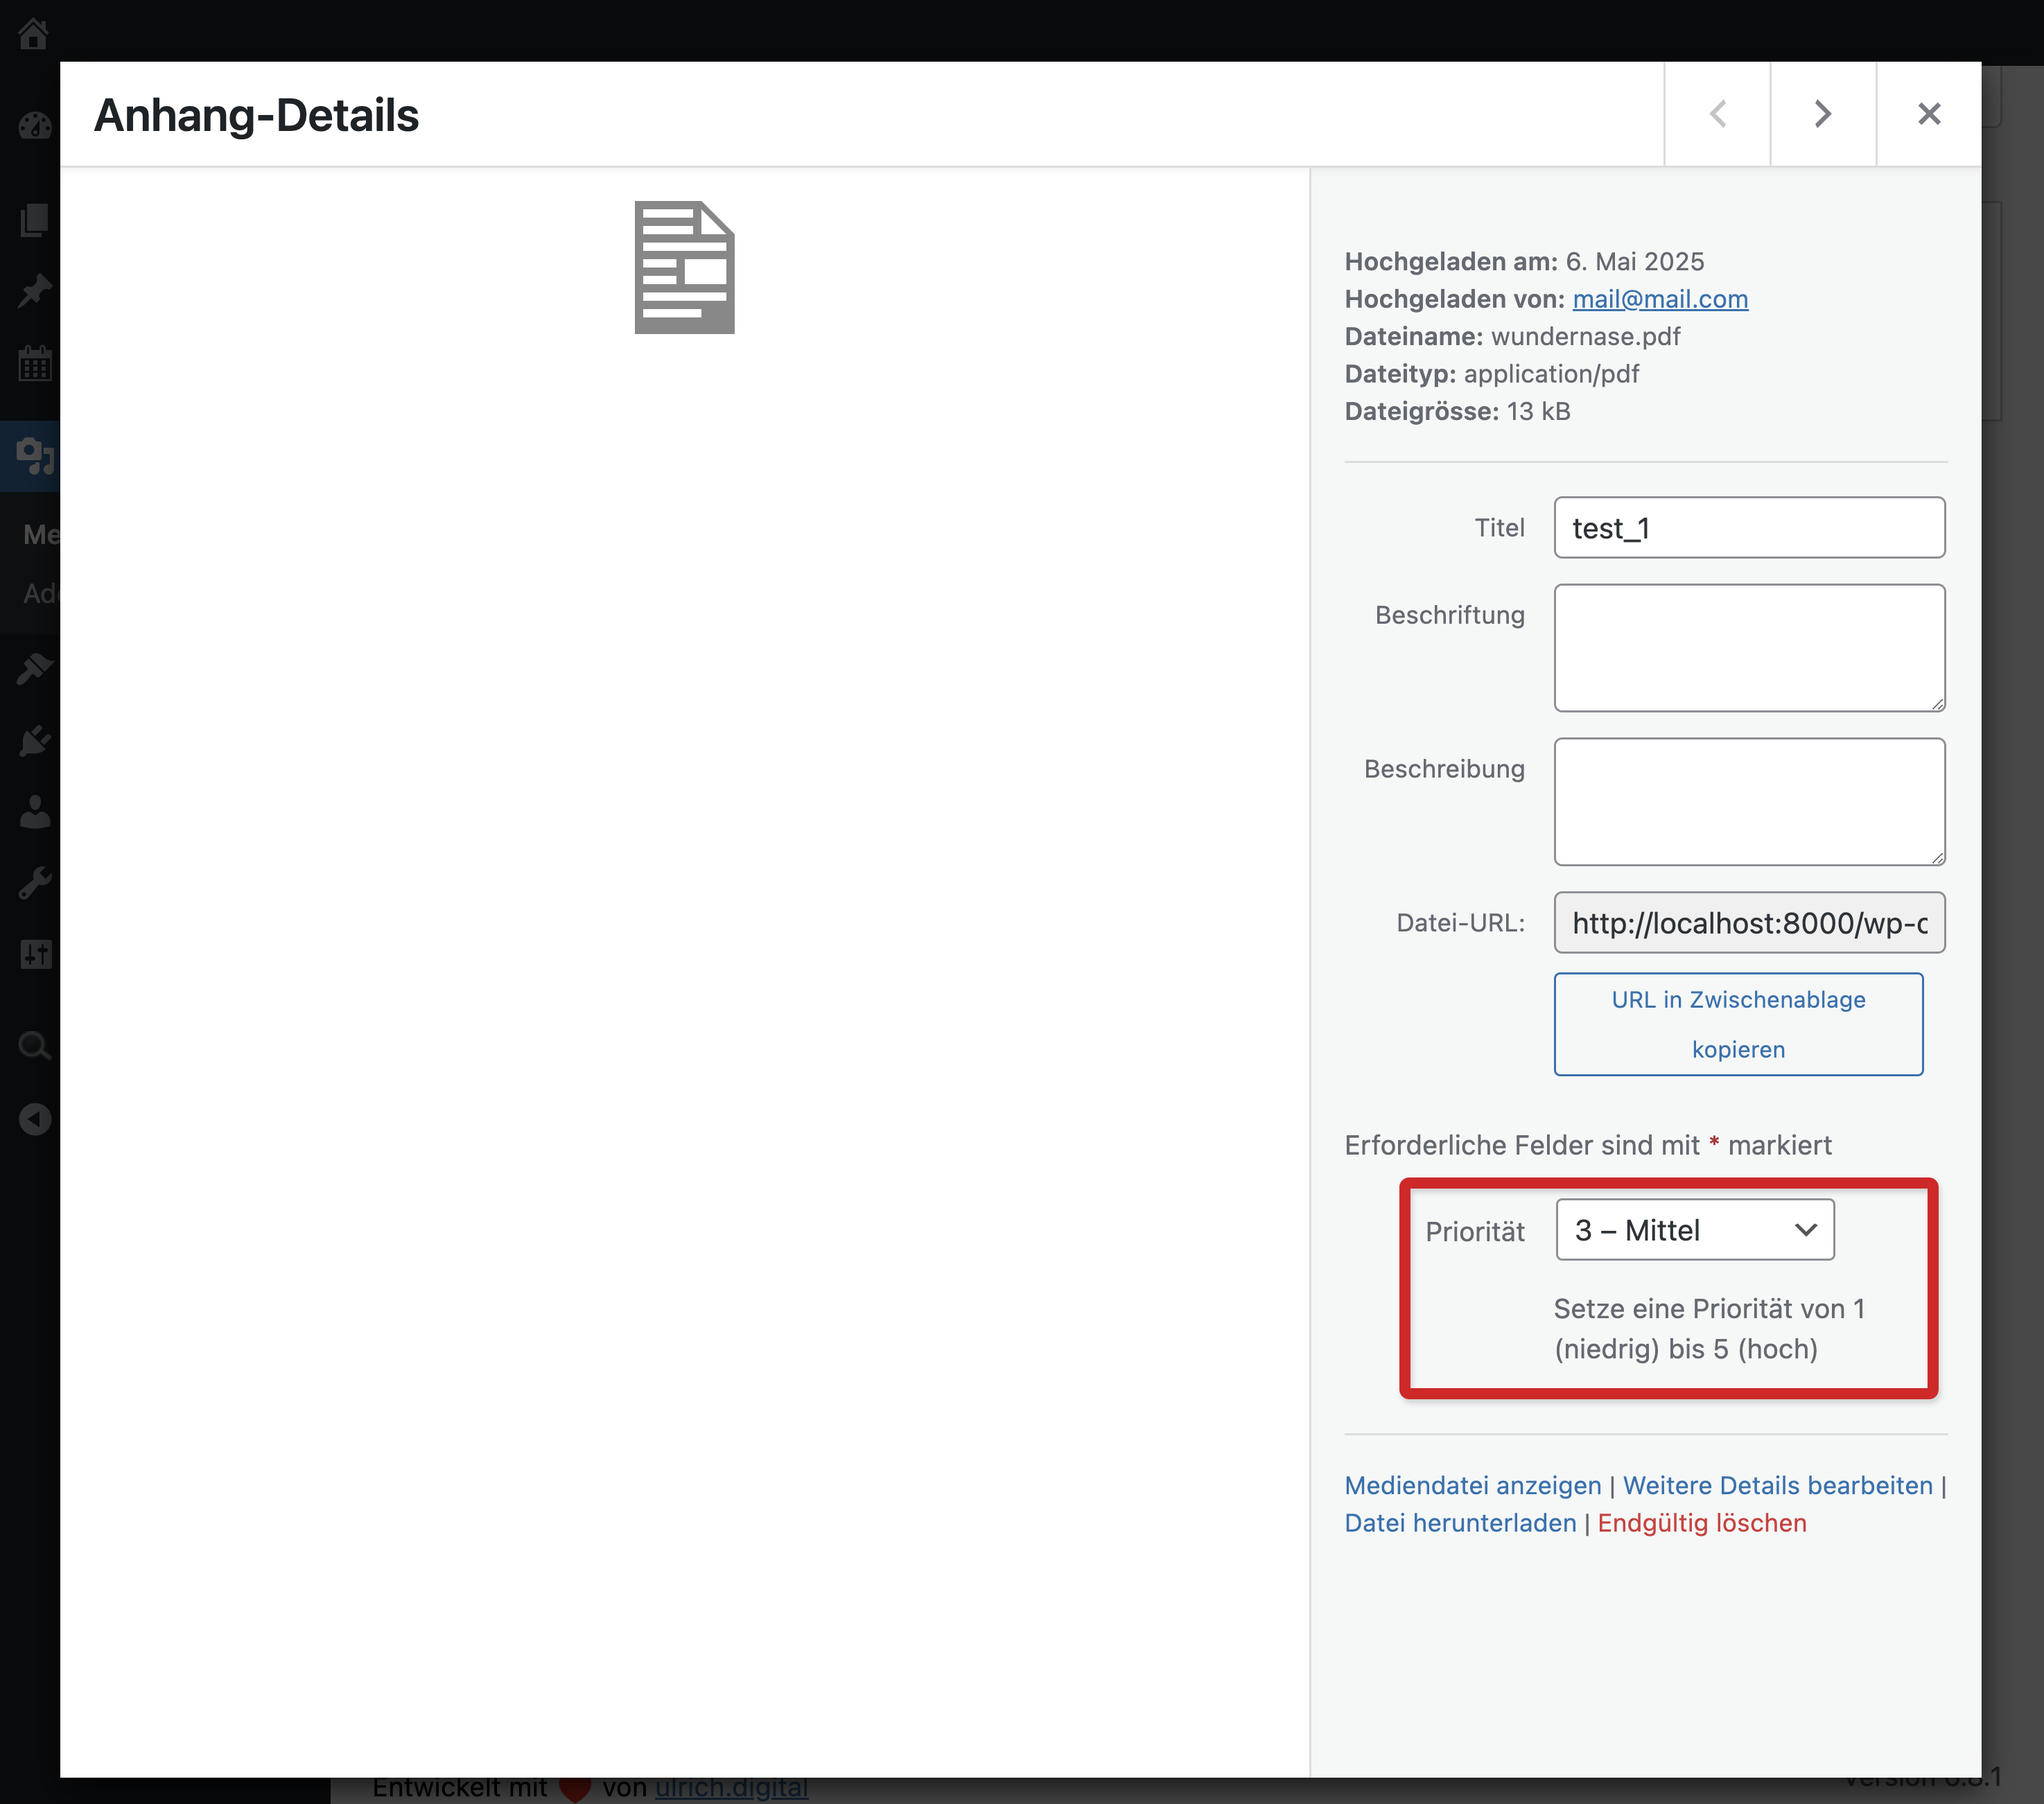
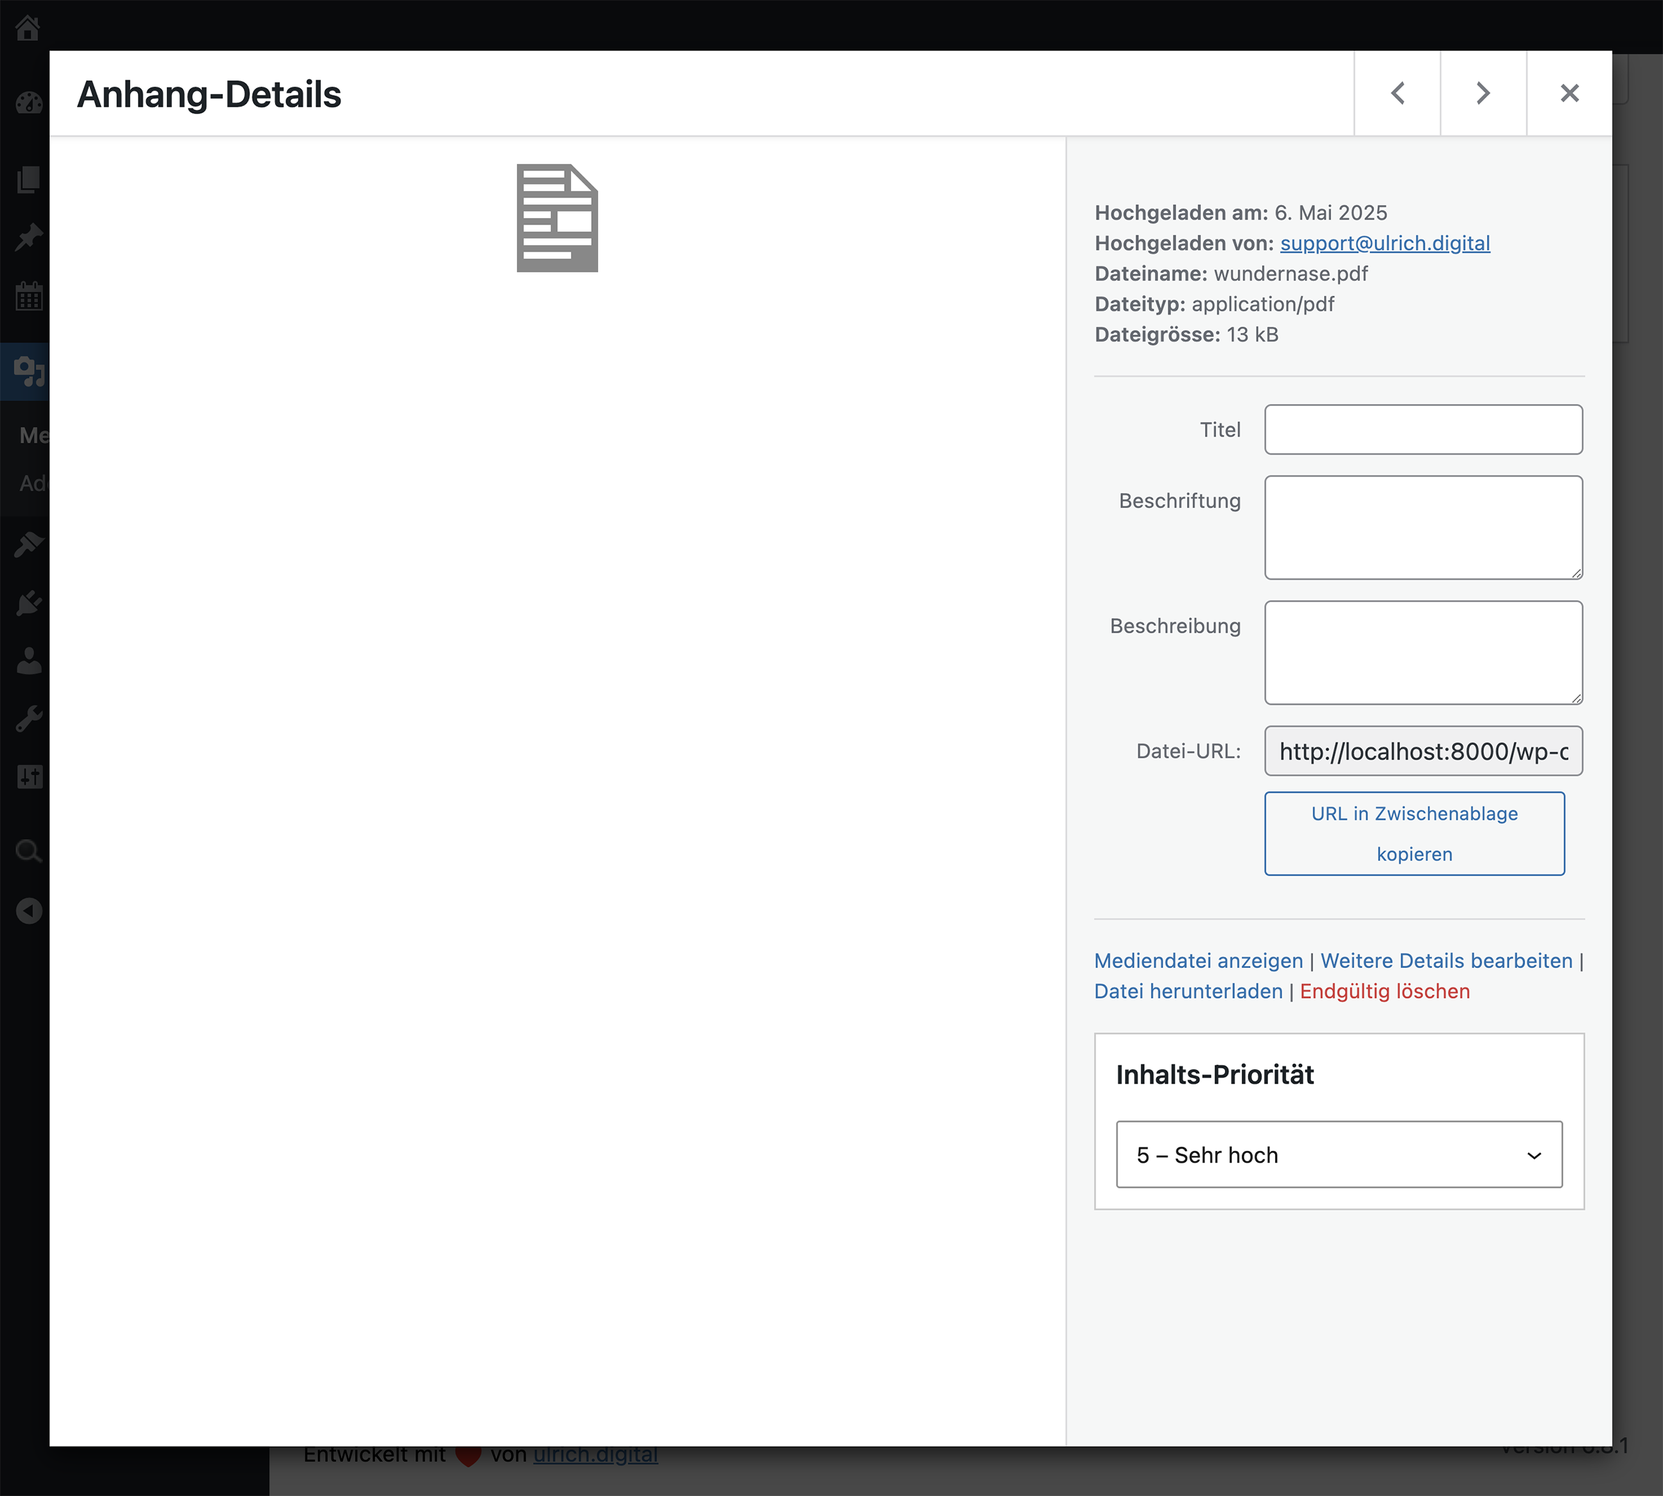
update images

diff --git a/src/js/blocks/media.js b/src/js/blocks/media.js
@@ -73,7 +73,7 @@ const MediaPriorityPanel = () => {
 				marginTop: "1em",
 			}}
 		>
-			<h3>Inhalts-Priorität</h3>
+			<h3 style={{ marginTop: 0 }}>Inhalts-Priorität</h3>
 			<SelectControl
 				value={value}
 				options={PRIORITY_OPTIONS}

diff --git a/README.md b/README.md
@@ -3,6 +3,7 @@
 Ein WordPress-Plugin zur Vergabe und Verwaltung von Inhalts-Prioritäten für PDF-Dateien, Beiträge, Seiten und Custom Post Types (CPTs). Ideal zur inhaltlichen Gewichtung und Sortierung – z. B. in Kombination mit Ajax Search Pro.
 
 
+
 ## Funktionen
 
 * Prioritätsfeld (1–5) für:
@@ -15,7 +16,7 @@ Ein WordPress-Plugin zur Vergabe und Verwaltung von Inhalts-Prioritäten für PD
   * `pdf_priority` für Anhänge
   * `content_priority` für alle anderen Inhalte
 * Kompatibel mit **Ajax Search Pro** zur Priorisierung von Suchergebnissen
-* **Optionenseite** zur gezielten Aktivierung pro Inhaltstyp (PDFs, Post Types, Ajax Search Pro)
+* **Optionenseite** zur gezielten Aktivierung pro Inhaltstyp und Medientyp (PDFs, Bilder, Videos, Audios, Post Types, Ajax Search Pro)
 
 
 
@@ -24,11 +25,14 @@ Ein WordPress-Plugin zur Vergabe und Verwaltung von Inhalts-Prioritäten für PD
 Die Plugin-Einstellungen finden sich unter
 **Einstellungen → Content Priority Manager**
 
+
+
 ### Mögliche Optionen:
 
-* **Priorität für PDFs aktivieren**
+* **Medientypen auswählen**, für die das Prioritätsfeld erscheinen soll  
+  (z. B. PDF, Bilder, Videos, Audios)
 * **Aktive Post Types auswählen** (z. B. `post`, `page`, CPTs)
-* **Ajax Search Pro-Unterstützung aktivieren**
+* **Ajax Search Pro-Unterstützung aktivieren**  
   → Fügt automatisch den nötigen Filter zur Ergebnis-Priorisierung hinzu
 
 
@@ -42,13 +46,15 @@ Die Plugin-Einstellungen finden sich unter
 
 ## Screenshots 
 
-1. **Sidebar im Gutenberg-Editor** mit Prioritätswahl
-    ![Sidebar im Editor](./assets/img/sidebar_im_editor.png)
-    *Abbildung: Sidebar im Editor.*
-2. **Medienansicht (PDF-Datei)** mit Prioritätsfeld
-    ![Medianansicht](./assets/img/medienansicht.png)
-    *Abbildung: Prioriätsfeld in der Medienansicht.*
-3. **Einstellungen im Adminbereich**
+**Sidebar im Gutenberg-Editor** mit Prioritätswahl
+![Sidebar im Editor](./assets/img/sidebar_im_editor.png)
+*Abbildung: Sidebar im Editor.*
+
+**Medienansicht (PDF-Datei)** mit Prioritätsfeld
+![Medianansicht](./assets/img/medienansicht.png)
+*Abbildung: Prioriätsfeld in der Medienansicht.*
+
+**Einstellungen im Adminbereich**
     ![Optionen-Seite](./assets/img/options_page.png)
     *Abbildung: Optionen-Seite.*
 
